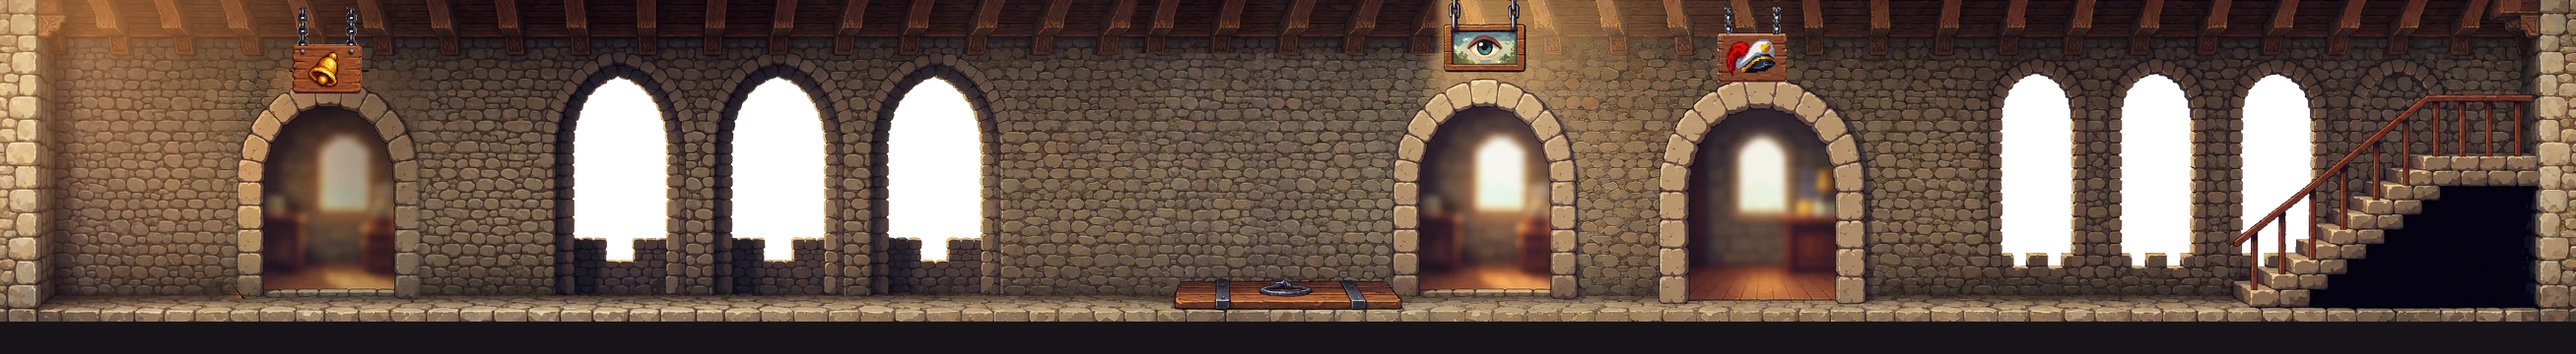
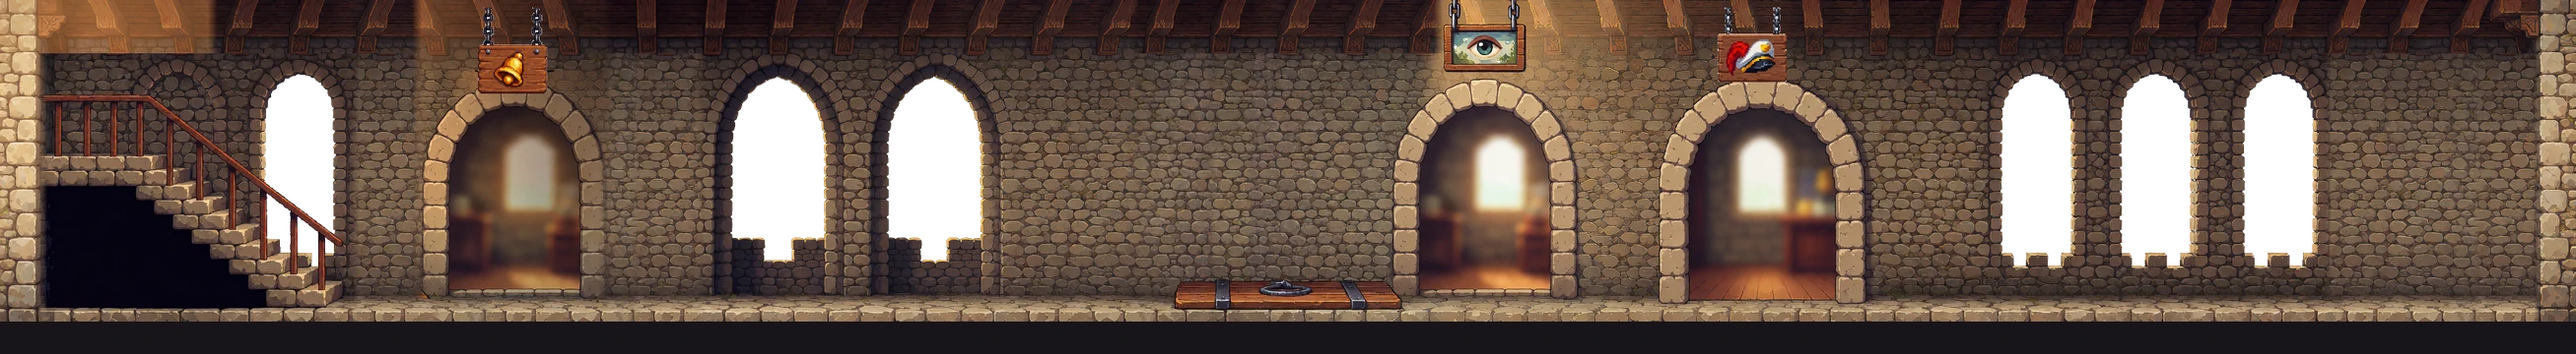
Night Watch: towers stair down moves to the left end
Lines up with the upper floor's stair up (left end), so climbing the back
stair no longer lands you at the other end of the towers. The watchtower
doorway moves right (815 native) and the right end is closed with wall.
links.back-stair on the towers is now 191.

Claude-Session: https://claude.ai/code/session_01JTmPYBVW2aVCQqTmNfy428

Changed region(s): [[0.0, 0.0, 0.2789, 0.9167], [0.8366, 0.1528, 0.9916, 0.9167]]

diff --git a/game/js/watch-art-castle.js b/game/js/watch-art-castle.js
@@ -166,8 +166,8 @@ window.WATCH_ART_CASTLE = {
    "rooms": [
     [
      "watchtower",
-     236,
-     428
+     424,
+     616
     ],
     [
      "lookout",
@@ -181,7 +181,7 @@ window.WATCH_ART_CASTLE = {
     ]
    ],
    "doors": {
-    "watchtower": 332,
+    "watchtower": 520,
     "lookout": 1506,
     "captain": 1778
    },
@@ -191,7 +191,7 @@ window.WATCH_ART_CASTLE = {
     "captain"
    ],
    "links": {
-    "back-stair": 2419,
+    "back-stair": 191,
     "ladder": 1277
    },
    "walls": [

diff --git a/game/tools/watch_art/castle/export_castle.py b/game/tools/watch_art/castle/export_castle.py
@@ -14,7 +14,7 @@ def key_windows(a, f):
     m = ((g > r + 22) & (g > b + 22) & (g > 90)) | ((g > b + 40) & (g > r + 5) & (g > 120))   # #00FF00 window glass, also under lantern glow
     if f == 'towers':                                                  # open battlement arches: sky blue and white cloud
         box = np.zeros_like(m)
-        for x0, x1 in ((880, 1590), (3150, 3690)): box[90:440, x0:x1] = True
+        for x0, x1 in ((380, 560), (1120, 1590), (3150, 3700)): box[90:440, x0:x1] = True
         mx, mn = np.maximum(np.maximum(r, g), b), np.minimum(np.minimum(r, g), b)
         m |= box & (((b >= r - 3) & ((r + g + b) > 330)) | ((mn > 165) & (mx - mn < 30)))
     a[m, 3] = 0
@@ -26,8 +26,8 @@ FLOORS = {   # x in native px of the 4096-wide floor (engine x = x * scale)
              'trapdoor': None, 'ladder': 1994, 'stairs': {'up-left': [80, 500]}},
  'upper':   {'doorways': [['wardrobe', 990], ['ledger', 1590], ['bridge-tower', 2775]],
              'trapdoor': [1880, 2130], 'stairs': {'up-left': [60, 560], 'down-right': [3500, 4000]}},
- 'towers':  {'doorways': [['watchtower', 520], ['lookout', 2360], ['captain', 2786]],
-             'trapdoor': [1870, 2130], 'stairs': {'down-right': [3550, 4030]}},
+ 'towers':  {'doorways': [['watchtower', 815], ['lookout', 2360], ['captain', 2786]],
+             'trapdoor': [1870, 2130], 'stairs': {'down-left': [60, 655]}},
 }
 # focus = the object the breach marker sits on, floorY = where Seo-yeon's feet go (1600x900 interior px)
 FOCUS = {'archive': [1020, 480], 'barracks': [960, 540], 'bridge-tower': [1000, 420], 'captain': [1080, 600],
@@ -39,7 +39,7 @@ LINKS = {   # link id -> native x per floor; the engine pairs the same id across
  'cellars': {'stair-left': 290, 'ladder': 1994},
  'ground':  {'stair-left': 375, 'stair-right': 3660, 'ladder': 2005},
  'upper':   {'stair-right': 3750, 'back-stair': 310, 'ladder': 2005, 'bridge-door': 2775},
- 'towers':  {'back-stair': 3790, 'ladder': 2000},
+ 'towers':  {'back-stair': 300, 'ladder': 2000},
 }
 def E(x): return round(x * SCALE)
 out, interiors = {}, {}

diff --git a/game/tools/watch_art/castle/towers_stair_left.py b/game/tools/watch_art/castle/towers_stair_left.py
@@ -1,0 +1,25 @@
+# Towers: the stair down moves to the left end so it lines up with the upper floor's stair up (Ladi, Nov 19).
+# Mirror the right-end stair to the left end, move the watchtower doorway right (over the first battlement window,
+# which becomes wall), and close the right end with a battlement window and plain wall.
+import numpy as np
+from compose2 import A, paste, save
+t0 = A('hd/towers-v5.png'); t = t0.copy(); m = t0[:, ::-1].copy()
+def mx(x): return 4095 - x
+wall = t0[85:512, 1600:1860]                                   # plain wall + floor strip, 260 wide
+def wall_fill(x0, x1, y0=85):
+    for x in range(x0, x1, 236):
+        w = min(260, x1 - x)
+        if w < 30: break
+        paste(t, np.pad(wall[:, :w], ((85, 0), (x, 4096 - x - w), (0, 0))), (x, 85, x + w, 512), (x, 85), fy=False, f=12)
+# 1) left end: plain wall over the watchtower doorway and the first window, then the mirrored stair at 60..655
+wall_fill(60, 1120)
+paste(t, m, (mx(4035), 85, mx(3440), 512), (60, 85), fy=False, f=16)
+paste(t, t0, (1300, 0, 1640, 85), (330, 0), fy=False, f=16)            # rafters over the old sign's chains
+wall_fill(560, 700)                                                   # cover the window sliver right of the stair
+# 2) watchtower doorway (with its bell sign) moved right, centred at 815
+paste(t, t0, (360, 0, 680, 476), (655, 0), fy=False, f=16)
+# 3) right end: window 3 rebuilt from window 2's cell, then plain wall to the end wall
+paste(t, t0, (3290, 85, 3515, 476), (3485, 85), fy=False, f=8)
+wall_fill(3696, 4040)
+paste(t, t0, (3290, 470, 3540, 512), (3480, 470), fy=False, f=10)
+save(t, 'hd/towers-v6.png')

diff --git a/game/CREDITS.md b/game/CREDITS.md
@@ -136,7 +136,7 @@ Everything else is drawn in code: portraits for characters without a painted one
 | The Night Watch's stacked town (`assets/img/watch/town`, and the per-level crops `assets/img/watch/levels/*/street.webp`): the West Road, Hill Road, Main Street and Far Lane on one hillside, each road above the next, joined by sloped paths and the chute | Laid out by `tools/watch_art/town.py` on 2026-11-18 from the Sogni buildings, trees and bushes credited above, plus a hillside soil tile and a stone retaining-wall tile generated for this game with [Sogni](https://www.sogni.ai) on 2026-11-18 with Krea 2 Turbo (`krea2_turbo_fp8_scaled`) on Ladi's Sogni Unlimited plan; roads, ramps, fences, the chute and the dock's plank walkway and river drawn in code. The backdrop behind the terraces (`town/back.webp`) reuses the hazed rooftop rows from the first set of level layers, raised to the top of the hill, over a hazed hillside of the same trees and bushes. Since 2026-11-18 the roads sit 125 px apart with a solid earth bank between them, each road's buildings are a layer of their own (`town/bld-*.webp`), and a blurred, see-through copy of each (`town/bld-*-soft.webp`) is made in code. The plain below the hazed rooftops is filled with distant villages and farmland (`town/back.webp`), or in the variants `town/back-forest.webp` and `town/back-mix.webp` with forest, rocky terrain and lakes (with a few villages in the mix), each from three panoramas generated for this game with Google's Gemini image generation (Gemini 3.1 Flash Image) on 2026-11-18 (`tools/watch_art/villages`, `forest` and `mix`, made by `tools/watch_art/gem.py`), cropped, hazed and cross-faded in code | Generated for this game with Sogni and Gemini; used under each service's terms for generated output | The Night Watch's town (`js/watch-art.js`) |
 | The Night Watch's castle floors (`assets/img/watch/floors/*/wall.webp`): the towers, upper floor, ground floor and cellars, each one long wall with its stairs at both ends and its rooms furnished at a person's scale | Generated for this game with [Sogni](https://www.sogni.ai) on 2026-11-18 on Ladi's Sogni Unlimited plan: each floor drawn empty as one wall with Krea 2 Turbo (`krea2_turbo_fp8_scaled`), then furnished in place with Krea 2 Identity Edit (`krea2_identity_edit_v1_2`) using the empty room for scale; windows and doorways keyed out by `tools/watch_art/floors2.py`. The cellar bunk that blocked a doorway removed with one more Krea 2 Identity Edit; the ground floor's window sills, the solid end walls, the opened bridge doorway and the hoist shaft on the left drawn in code by the same script | Generated for this game; used under Sogni's terms for generated output | The Night Watch's castle (`js/watch-art.js`) |
 | The Night Watch's dialogue portraits (`assets/img/watch/portraits/*.webp`): Seo-yeon, Mira, Kai, Dutch, Postmaster Coo, Bru, Kagemaru, Lexi, Grandma Wen, Ayo, Aigerim, Chad, Sir Seymour Backups, Old Hobb, Sergeant Pell, Tess, Doug, Hollis, Odu, Fennel, the Captain and the Hooded Stranger | Generated for this game with [Sogni](https://www.sogni.ai) on 2026-11-18 with Krea 2 Identity Edit (`krea2_identity_edit_v1_2`) on Ladi's Sogni Unlimited plan, each turned into a head-and-shoulders bust from that character's side-view render in `assets/img/watch/people` (and, where one exists, their portrait in `assets/img/portraits` as a second reference); one of two takes picked, cropped and converted to WebP; Seymour's closed visor edited the same way, and Kagemaru's wrists recoloured black in code. Chad's portrait (a young first-year MBA in a navy quarter zip) drawn fresh from a text prompt with Krea 2 Turbo (`krea2_turbo_fp8_scaled`), one of six takes picked. Prompts in `tools/watch_art/jobs/jobs-portrait.json` | Generated for this game; used under Sogni's terms for generated output | The Night Watch's dialogue box |
-| The Night Watch's HD castle floors (`assets/img/watch/floors/{ground,cellars,upper,towers}/wall-v2.webp`): the ground floor (gatehouse, great hall with its fireplace, post room), the brick-vaulted cellars, the upper floor and the tower top, painted 4096x512 (masters kept in the project files) and scaled to 2614x360 for the game, with stairs, a floor trapdoor and archway doorways with picture signs | Generated for this game with [Sogni](https://www.sogni.ai) on 2026-11-18 and 2026-11-19 on Ladi's Sogni Unlimited plan: an empty HD hall drawn with Krea 2 Turbo (`krea2_turbo_fp8_scaled`), then built up one feature per edit with Krea 2 Identity Edit (`krea2_identity_edit_v1_2`) in 2048-wide windows pasted back with feathered edges (`tools/watch_art/castle/winedit.py`); the eight doorway signs drawn with Krea 2 Turbo on white and cut out. The cellars were rebuilt in code from one clean vault bay of the Sogni render, and missing doorways were copied from another doorway on the same floor (`tools/watch_art/castle/cellars_tiles.py`, `compose2.py`, `towers_fix.py`). The ground floor's stair down to the cellars is drawn in code from the floor's own stone (`tools/watch_art/castle/ground_down.py`). Windows keyed to transparent by `tools/watch_art/castle/export_castle.py` | Generated for this game; used under Sogni's terms for generated output | The Night Watch's castle floors (`js/watch-art-castle.js`, `WATCH_ART_CASTLE`) |
+| The Night Watch's HD castle floors (`assets/img/watch/floors/{ground,cellars,upper,towers}/wall-v2.webp`): the ground floor (gatehouse, great hall with its fireplace, post room), the brick-vaulted cellars, the upper floor and the tower top, painted 4096x512 (masters kept in the project files) and scaled to 2614x360 for the game, with stairs, a floor trapdoor and archway doorways with picture signs | Generated for this game with [Sogni](https://www.sogni.ai) on 2026-11-18 and 2026-11-19 on Ladi's Sogni Unlimited plan: an empty HD hall drawn with Krea 2 Turbo (`krea2_turbo_fp8_scaled`), then built up one feature per edit with Krea 2 Identity Edit (`krea2_identity_edit_v1_2`) in 2048-wide windows pasted back with feathered edges (`tools/watch_art/castle/winedit.py`); the eight doorway signs drawn with Krea 2 Turbo on white and cut out. The cellars were rebuilt in code from one clean vault bay of the Sogni render, and missing doorways were copied from another doorway on the same floor (`tools/watch_art/castle/cellars_tiles.py`, `compose2.py`, `towers_fix.py`; the towers' stair down was moved to the left end the same way in `towers_stair_left.py`). The ground floor's stair down to the cellars is drawn in code from the floor's own stone (`tools/watch_art/castle/ground_down.py`). Windows keyed to transparent by `tools/watch_art/castle/export_castle.py` | Generated for this game; used under Sogni's terms for generated output | The Night Watch's castle floors (`js/watch-art-castle.js`, `WATCH_ART_CASTLE`) |
 | The Night Watch's room popups (`assets/img/watch/rooms/*.webp`): the archive, strongroom, barracks, tavern, wardrobe, ledger room, bridge tower, watchtower, lookout and captain's quarters, each painted around the object a breach is fixed on | Generated for this game with [Sogni](https://www.sogni.ai) on 2026-11-19 with Krea 2 Turbo (`krea2_turbo_fp8_scaled`) on Ladi's Sogni Unlimited plan, from the prompts in `tools/watch_art/castle/rooms.py` (one take each); trimmed and resized to 1600x900 and converted to WebP by `tools/watch_art/castle/export_castle.py` | Generated for this game; used under Sogni's terms for generated output | The Night Watch's room popups (`js/watch-art-castle.js`, `WATCH_ART_CASTLE`) |
 
 ## Model
